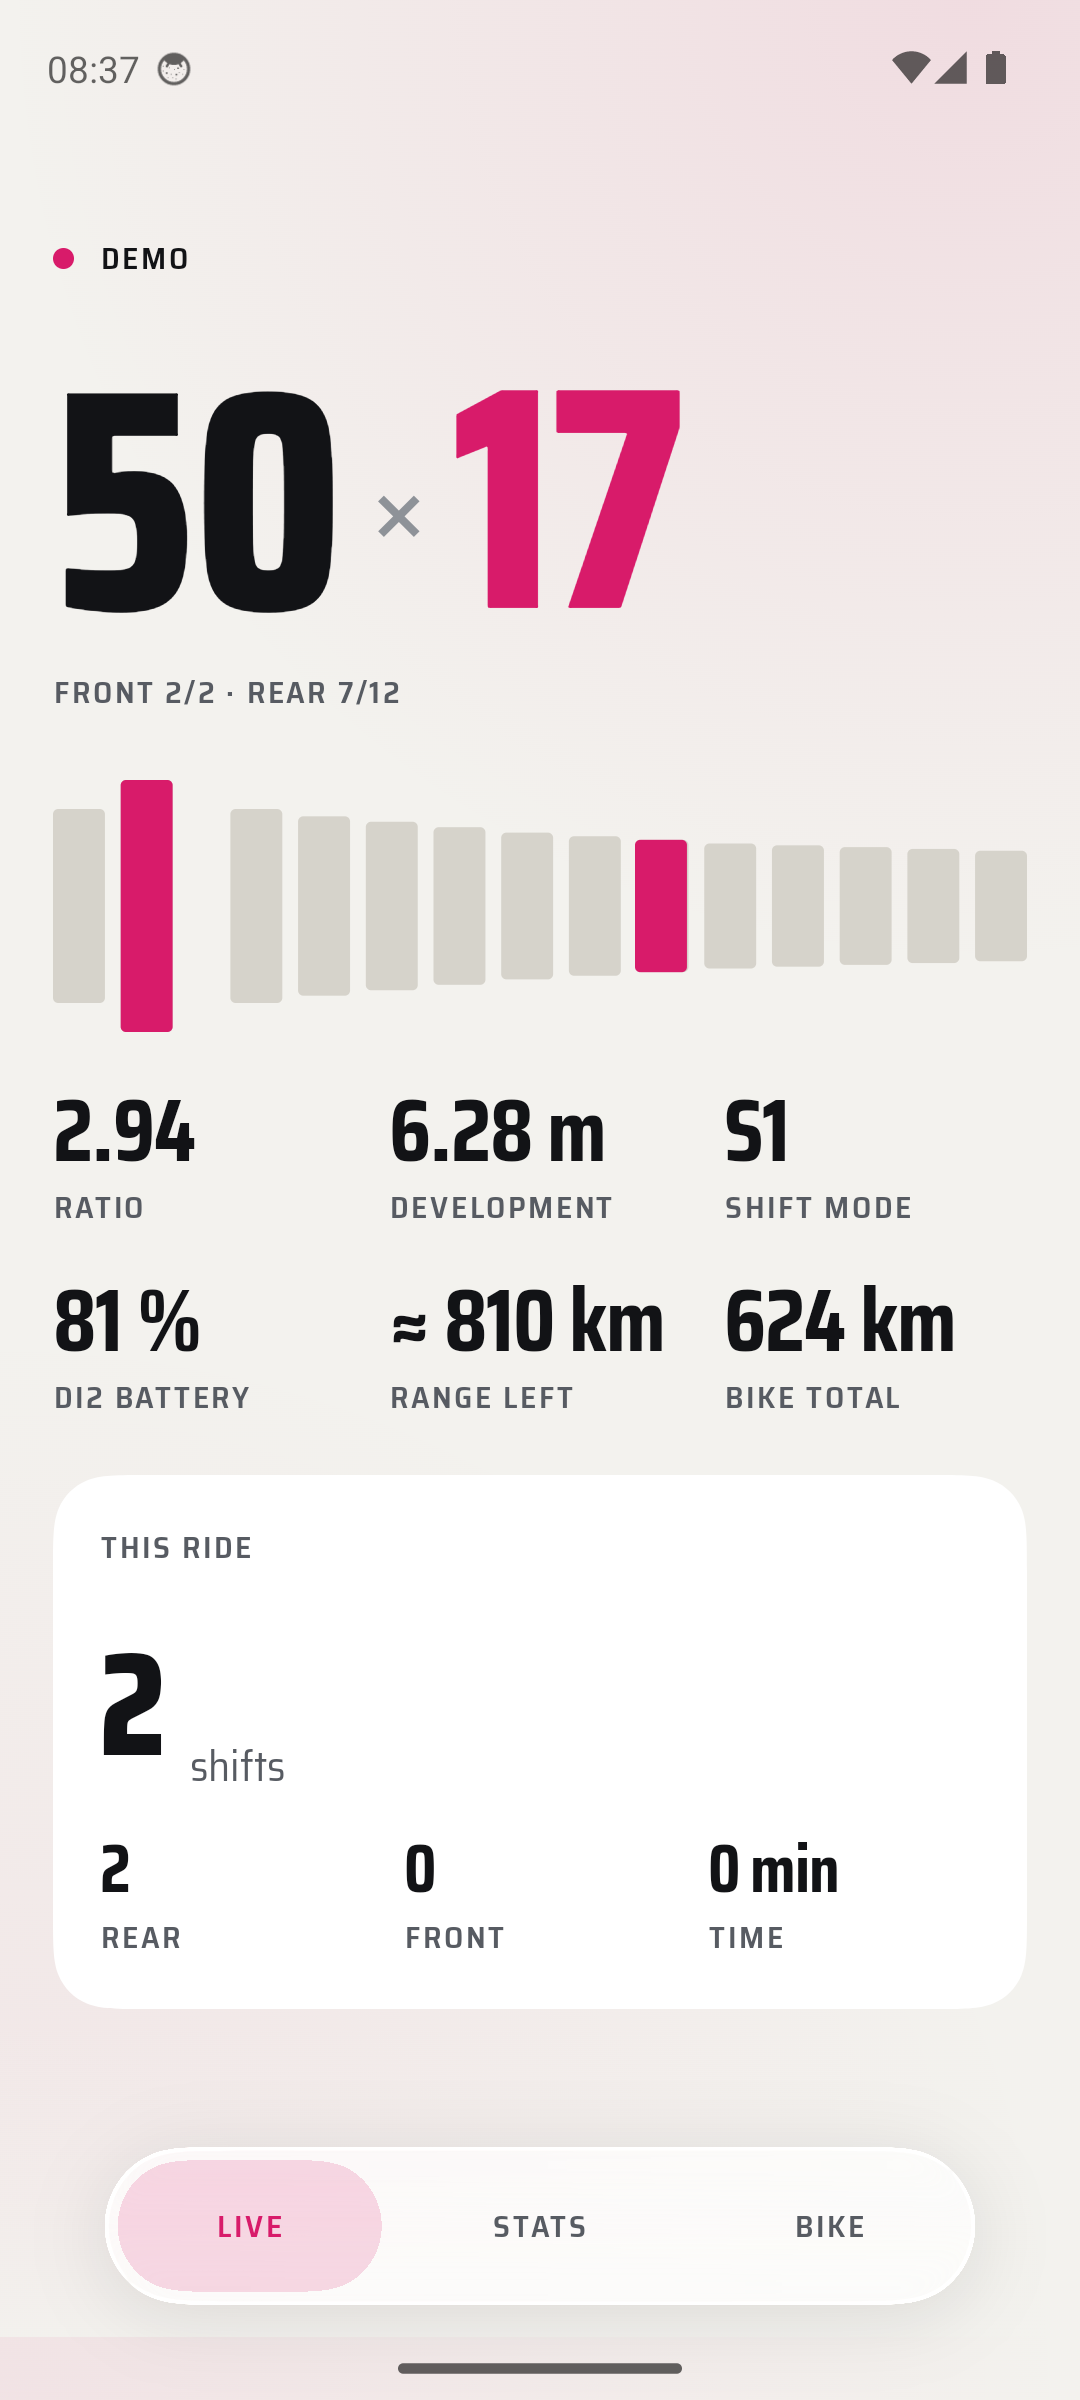
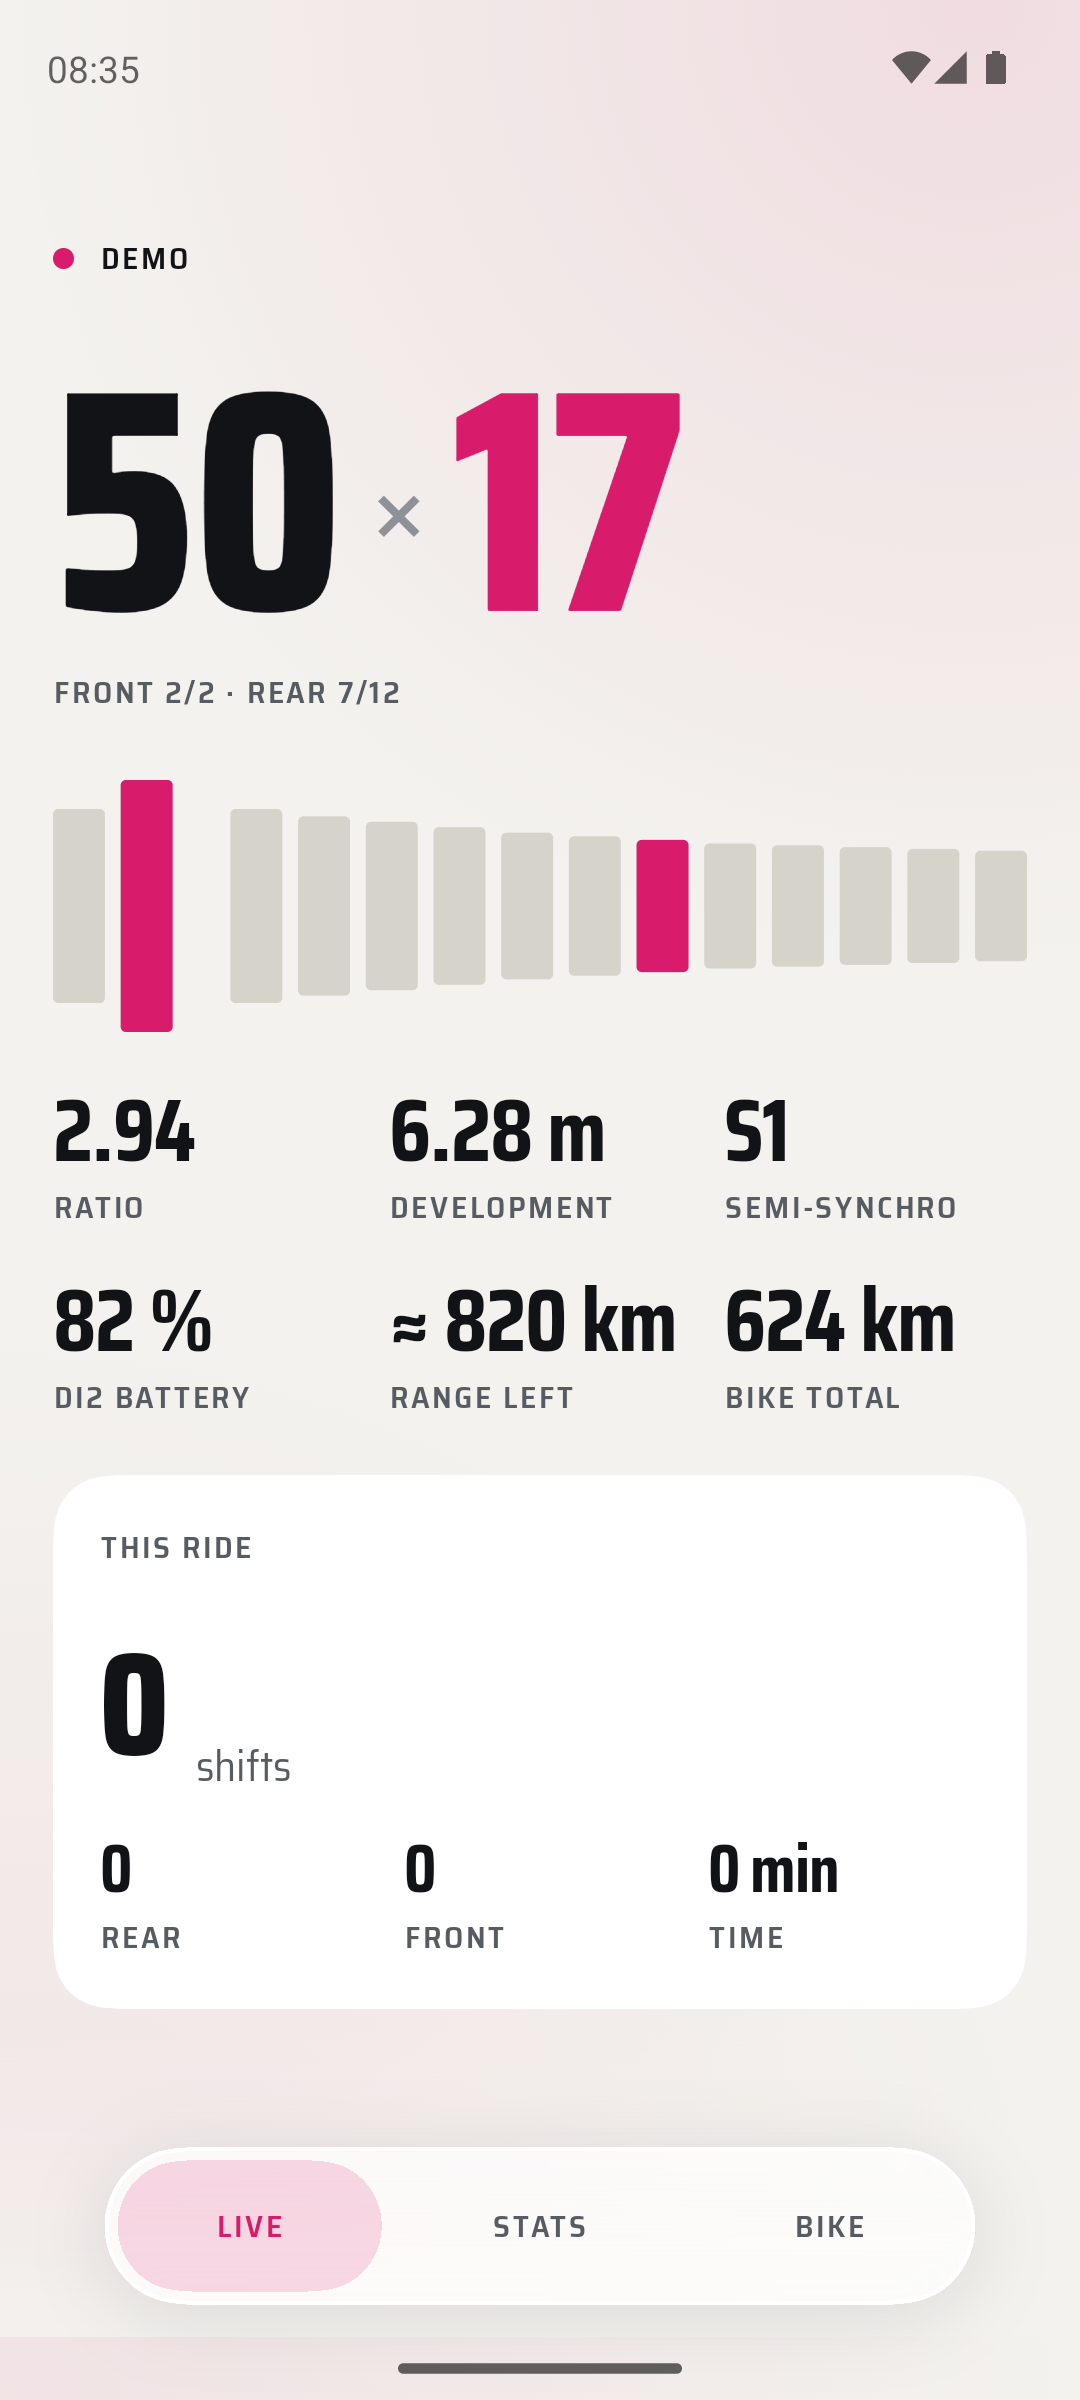
Screenshots for 0.8: shift mode in plain words, the shift column named once
All 17 demo screenshots (EN/DE, dark/light) retaken on the emulator with a fixed status
bar, the four README images and the social preview rendered from them, PNGs through
optipng. Alt texts follow the new demo numbers.

diff --git a/docs/de/index.html b/docs/de/index.html
@@ -58,12 +58,12 @@
       </div>
       <p class="note">Android 8 oder neuer. Kostenlos und quelloffen unter GPL-3.0.</p>
     </div>
-    <img class="screen" src="../bilder/app/live-de-dark.png" width="1080" height="2400" alt="Freehub zeigt den Gang 50 × 17, die Kassette mit dem aktuellen Ritzel in Rosa, Akku 81 %, noch etwa 810 km Reichweite und 624 km auf dem Rad">
+    <img class="screen" src="../bilder/app/live-de-dark.png" width="1080" height="2400" alt="Freehub zeigt den Gang 50 × 17, die Kassette mit dem aktuellen Ritzel in Rosa, Akku 82 %, noch etwa 820 km Reichweite und 624 km auf dem Rad">
   </section>
 
   <section class="band">
     <div class="container split">
-      <img class="screen" src="../bilder/app/stats-de-dark.png" width="1080" height="2400" loading="lazy" alt="Statistik: 2.553 Schaltvorgänge in 13 Fahrten, 624 km per GPS, Schräglauf-Anteil, Lieblingsgang 50 × 17 und eine Heatmap aus Kettenblatt und Ritzel">
+      <img class="screen" src="../bilder/app/stats-de-dark.png" width="1080" height="2400" loading="lazy" alt="Statistik: 2.551 Schaltvorgänge in 13 Fahrten, 624 km per GPS, Schräglauf-Anteil, Lieblingsgang 50 × 17 und eine Heatmap aus Kettenblatt und Ritzel">
       <div>
         <h2>Jeder Gangwechsel, jeder Kilometer.</h2>
         <p>Ein Multi-Shift über drei Ritzel zählt als drei. Freehub misst, wie lange du in jedem Kettenblatt und Ritzel fährst, und zeichnet daraus eine Heatmap. Gänge mit Schräglauf sind orange umrandet.</p>

diff --git a/docs/index.html b/docs/index.html
@@ -58,12 +58,12 @@
       </div>
       <p class="note">Android 8 or newer. Free and open source under GPL-3.0.</p>
     </div>
-    <img class="screen" src="bilder/app/live-en-dark.png" width="1080" height="2400" alt="Freehub showing the gear 50 × 17, the cassette with the current cog in pink, battery 81 %, about 810 km of range left and 624 km on the bike">
+    <img class="screen" src="bilder/app/live-en-dark.png" width="1080" height="2400" alt="Freehub showing the gear 50 × 17, the cassette with the current cog in pink, battery 82 %, about 820 km of range left and 624 km on the bike">
   </section>
 
   <section class="band">
     <div class="container split">
-      <img class="screen" src="bilder/app/stats-en-dark.png" width="1080" height="2400" loading="lazy" alt="Statistics: 2,553 shifts in 13 rides, 624 km measured by GPS, 1 % cross-chained, favourite gear 50 × 17 and a heatmap of chainring and cog">
+      <img class="screen" src="bilder/app/stats-en-dark.png" width="1080" height="2400" loading="lazy" alt="Statistics: 2,551 shifts in 13 rides, 624 km measured by GPS, 1 % cross-chained, favourite gear 50 × 17 and a heatmap of chainring and cog">
       <div>
         <h2>Every shift, every kilometre.</h2>
         <p>A multi-shift across three cogs counts as three. Freehub keeps the time you spend in each chainring and cog and draws it as a heatmap, with cross-chained gears outlined in orange.</p>

diff --git a/README.md b/README.md
@@ -18,7 +18,7 @@
 
 Shimano's E-TUBE PROJECT app asks you to sign in with a SHIMANO ID before it shows anything. Freehub connects to the rear derailleur over Bluetooth, reads what the derailleur already broadcasts to bike computers, and keeps every number on your phone.
 
-| ![Current gear as 50 × 17 with battery, range left and the bike’s total distance below](docs/bilder/1-live.png) | ![All-time shift count, distance by GPS and a heatmap of gear usage](docs/bilder/2-stats.png) | ![Battery, range left and drivetrain of the bike](docs/bilder/3-bike.png) | ![The crankset and cassette stored in the derailleur, and the shift quality: 0 of 2,448 rear shifts sprang back](docs/bilder/4-derailleur.png) |
+| ![Current gear as 50 × 17 with battery, range left and the bike’s total distance below](docs/bilder/1-live.png) | ![All-time shift count, distance by GPS and a heatmap of gear usage](docs/bilder/2-stats.png) | ![Battery, range left and drivetrain of the bike](docs/bilder/3-bike.png) | ![The shift mode explained with how to switch it, the crankset and cassette stored in the derailleur, and the shift quality: 0 of 2,439 rear shifts sprang back](docs/bilder/4-derailleur.png) |
 |---|---|---|---|
 
 ## What it shows
